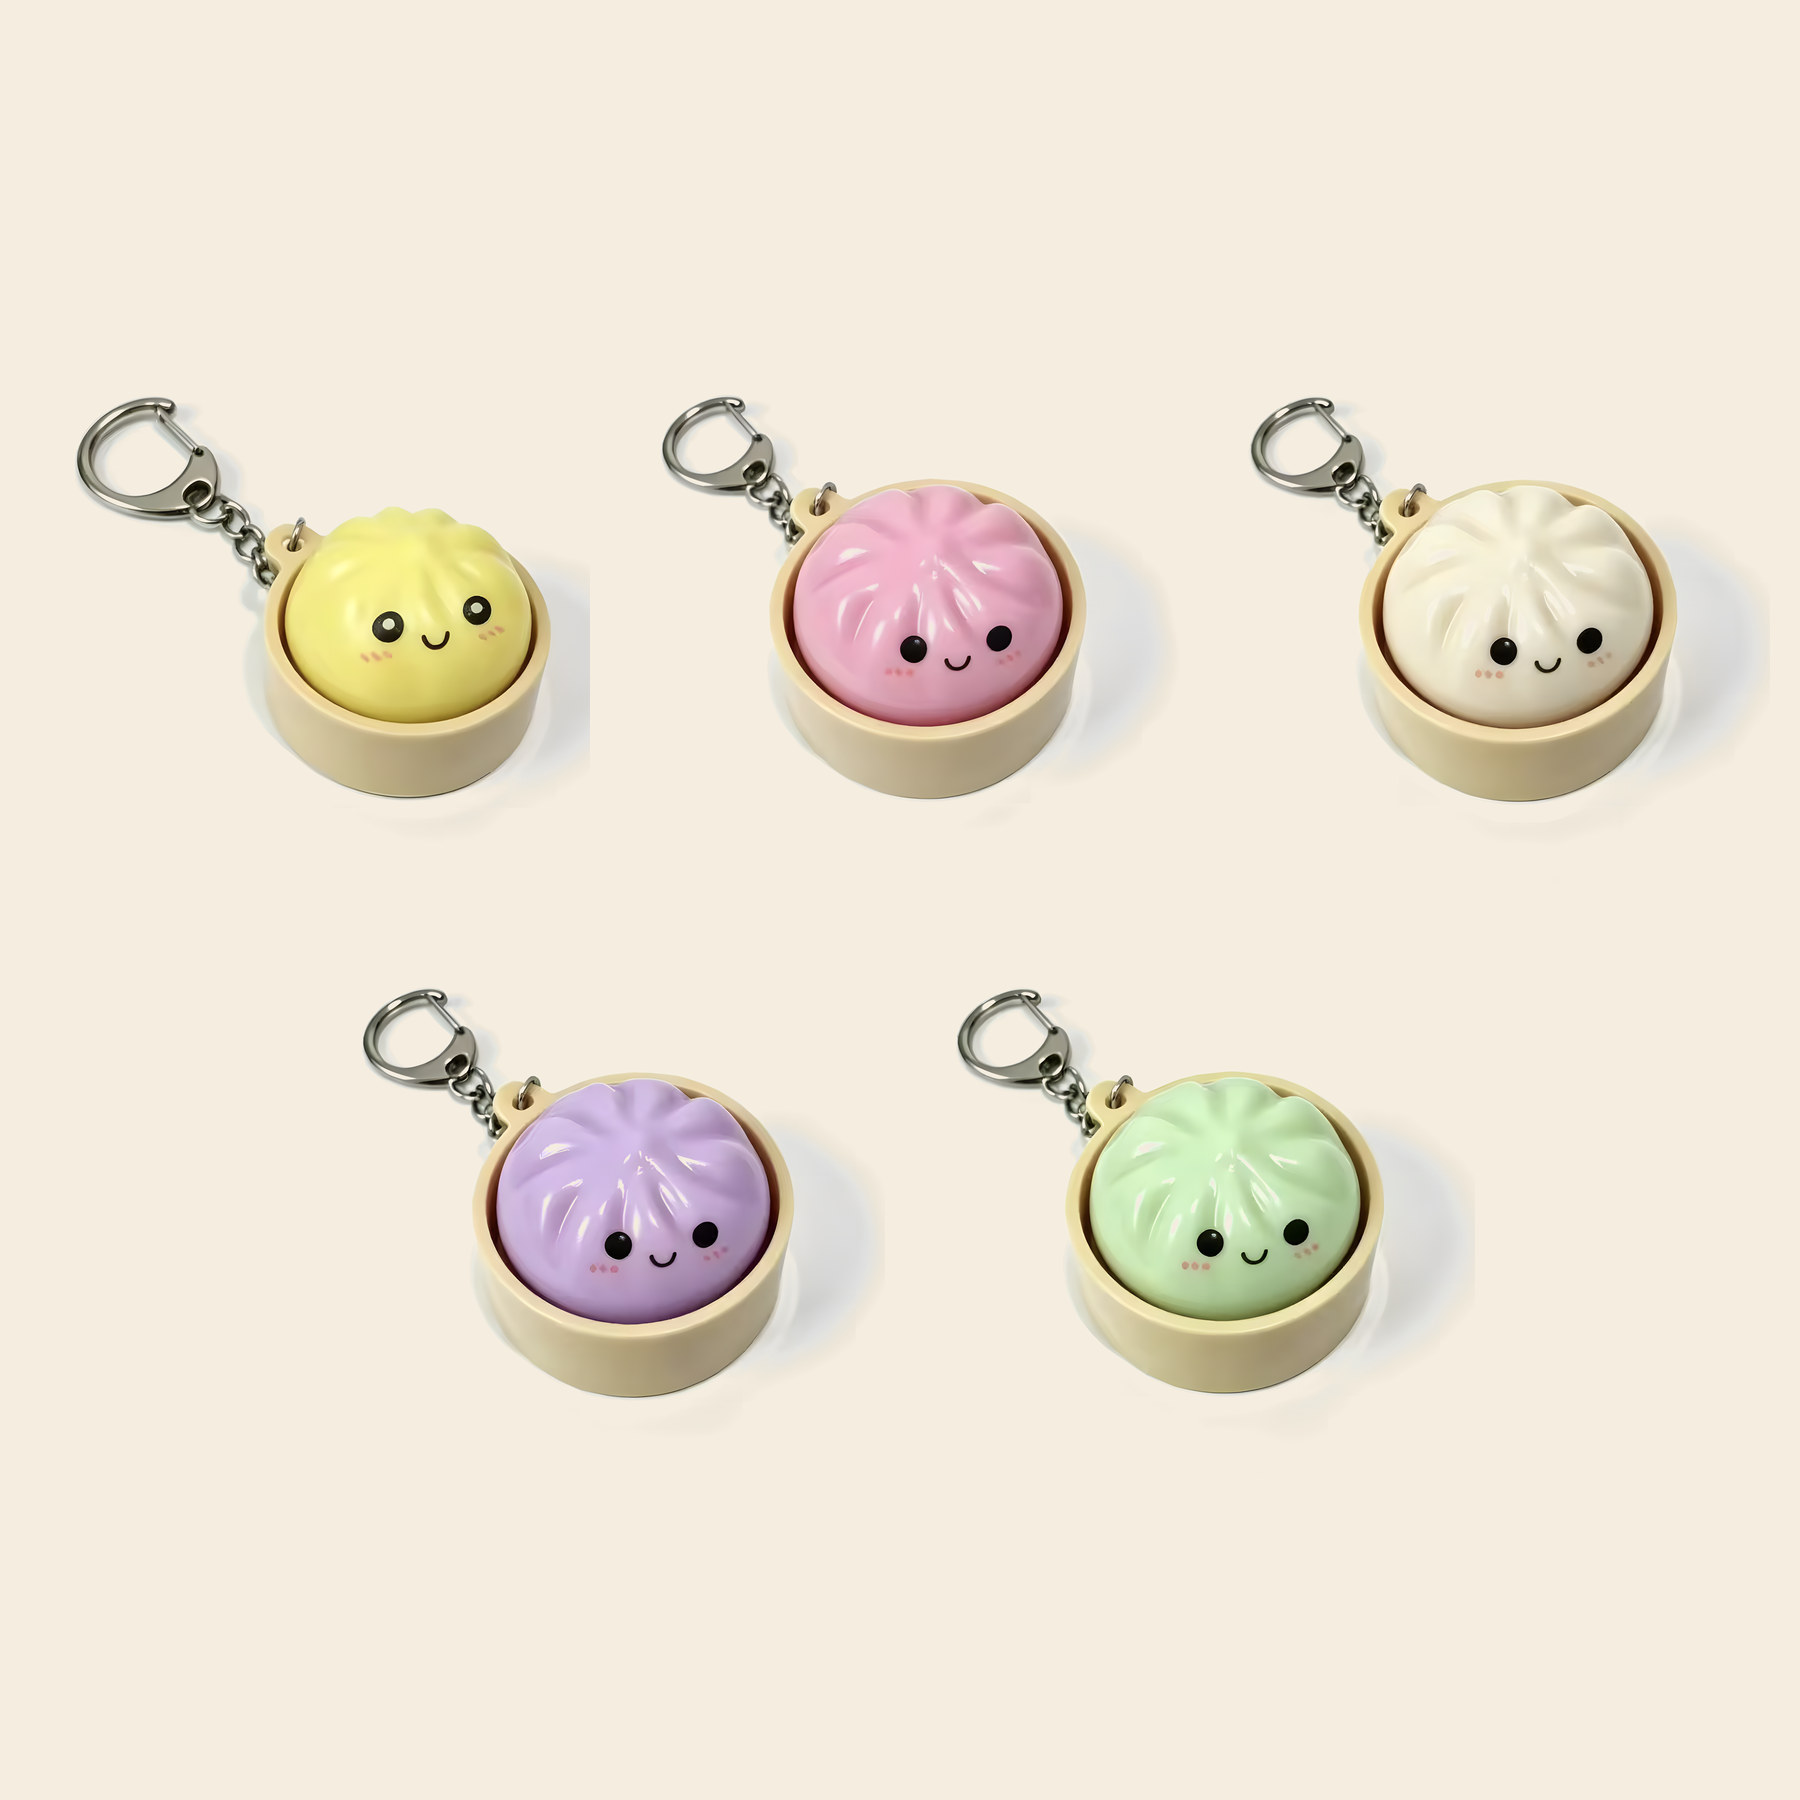
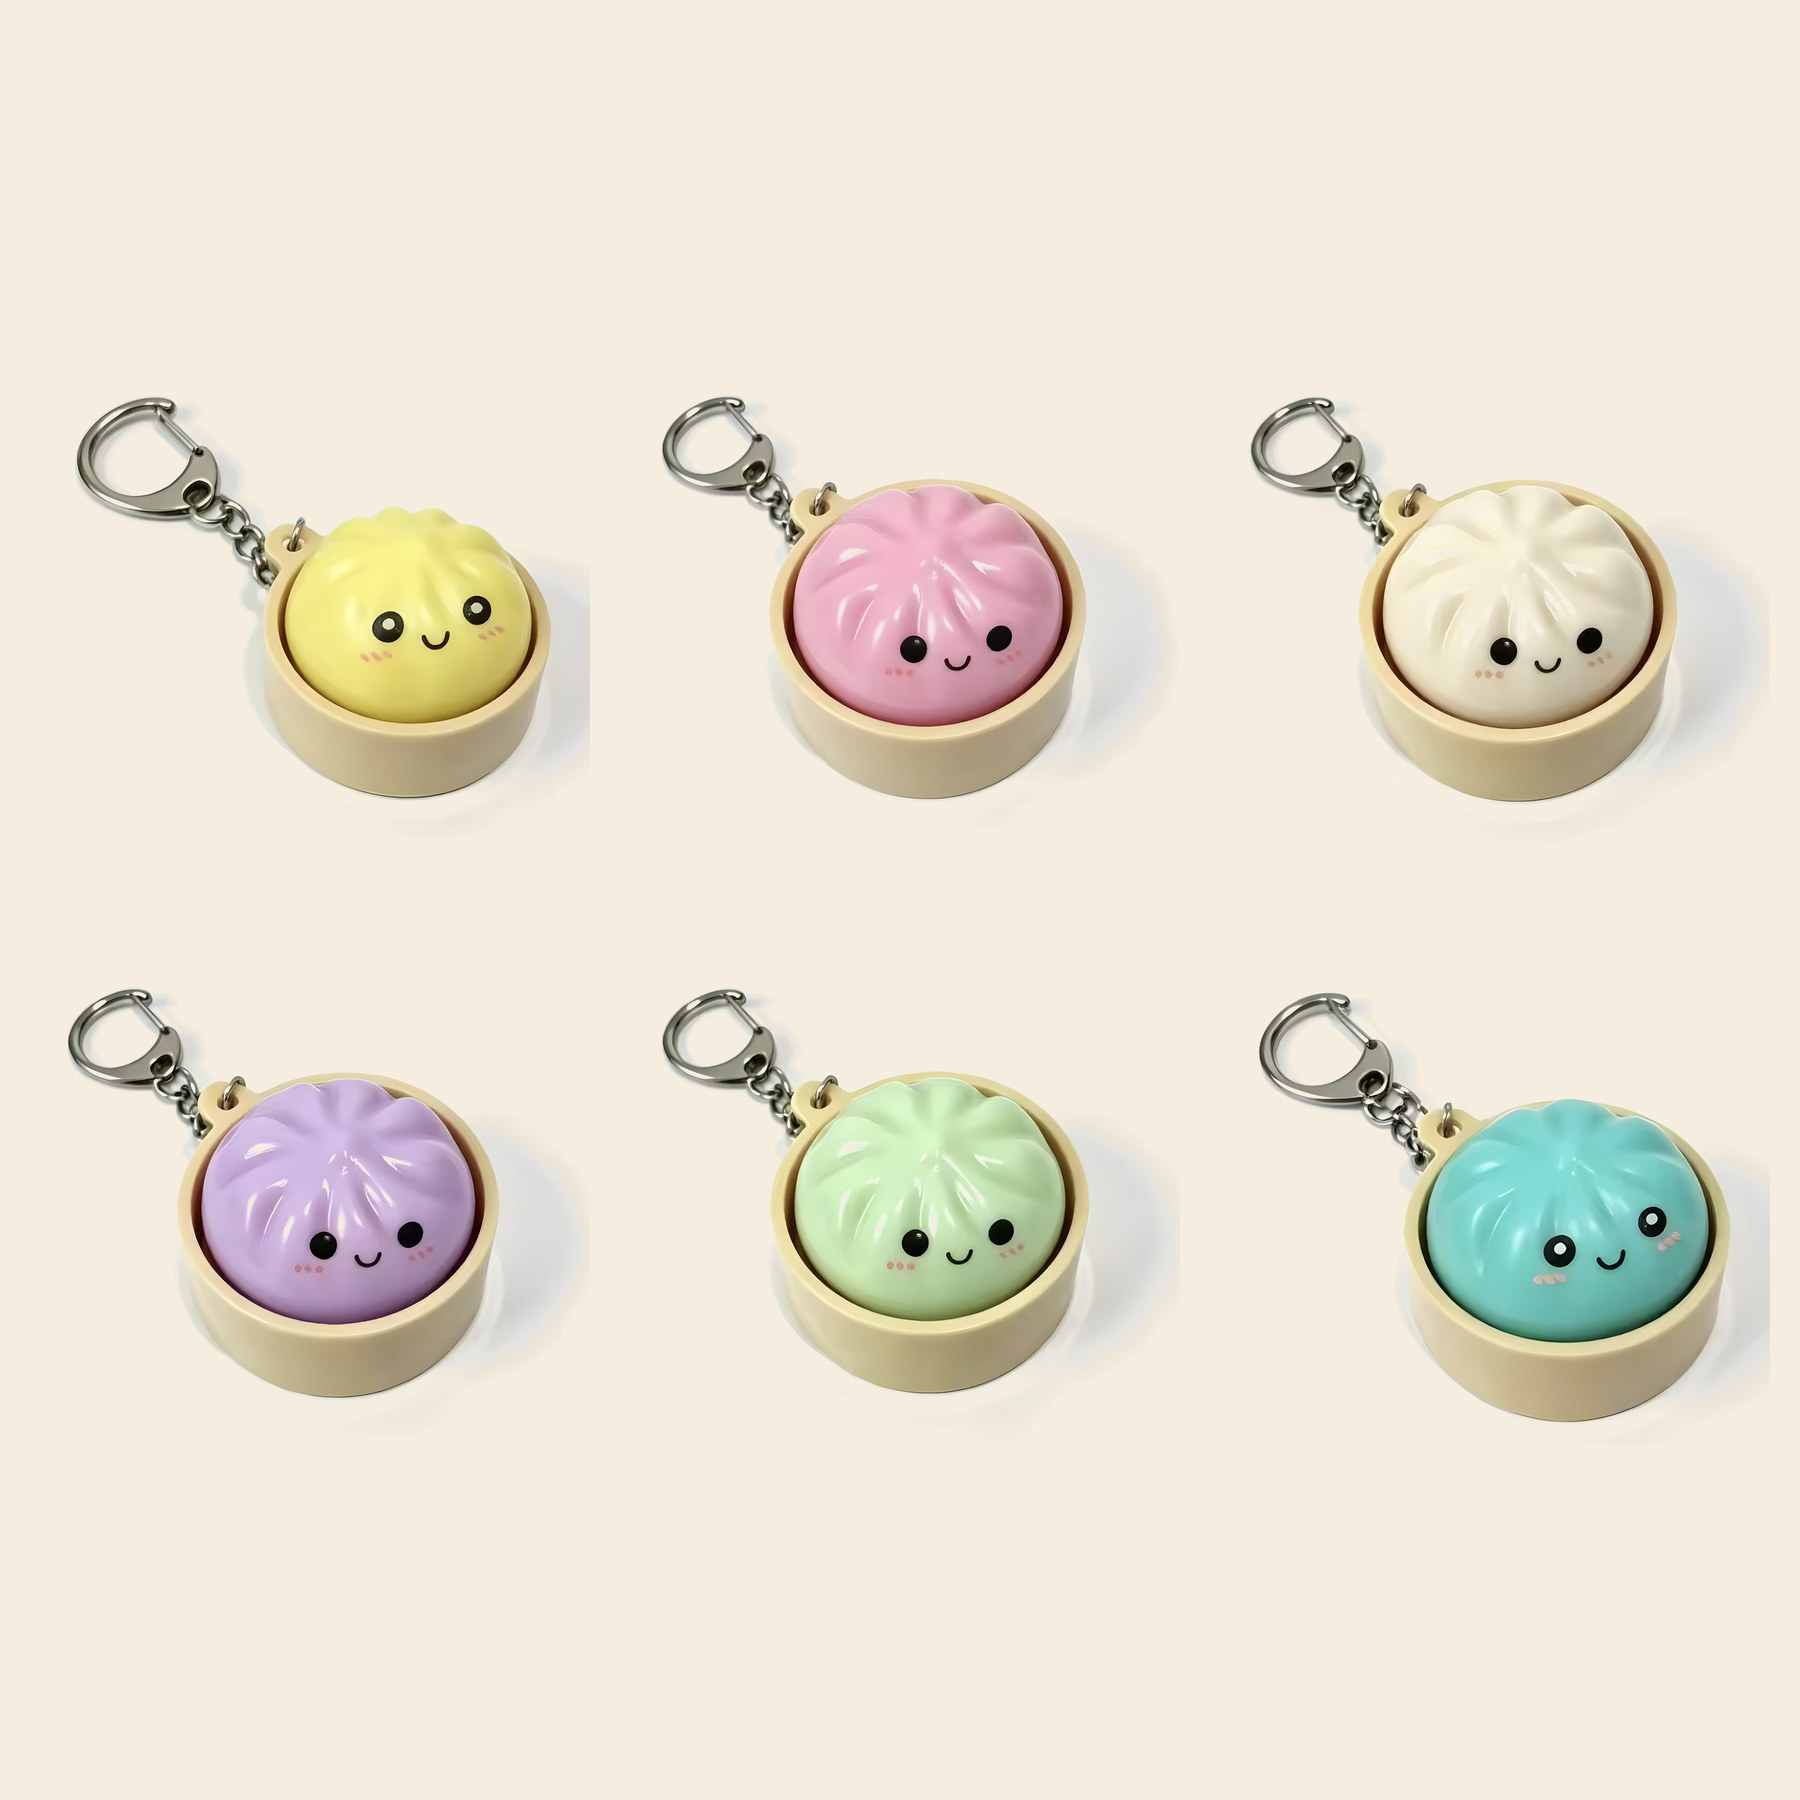
Steamed Bun Keychain: add Teal as a sixth colour; main photo shows all six
Claude-Session: https://claude.ai/code/session_01HZWAvbY9DuXc5XbQfyfu18

Changed region(s): [[0.0311, 0.5289, 0.9956, 0.8089]]

diff --git a/tests/functions.test.js b/tests/functions.test.js
@@ -305,11 +305,11 @@ test('home page banner: every banner photo exists and the order is candle, flora
   }
 });
 
-test('the steamed bun keychain is in accessories at $9.95 with five colours', () => {
+test('the steamed bun keychain is in accessories at $9.95 with six colours', () => {
   const p = catalog.products.find((x) => x.id === 'steamed-bun-keychain');
   assert.equal(p.price, 995);
   assert.deepEqual(p.categories, ['accessories']);
-  assert.deepEqual(p.options.values.map((v) => v.id), ['yellow', 'pink', 'white', 'purple', 'green']);
+  assert.deepEqual(p.options.values.map((v) => v.id), ['yellow', 'pink', 'white', 'purple', 'green', 'teal']);
   assert.equal(priceCart(catalog, [{ id: p.id, option: 'pink', qty: 1 }]).lines[0].unitAmount, 995);
   assert.ok(priceCart(catalog, [{ id: p.id, qty: 1 }]).error, 'a colour must be chosen');
 });
